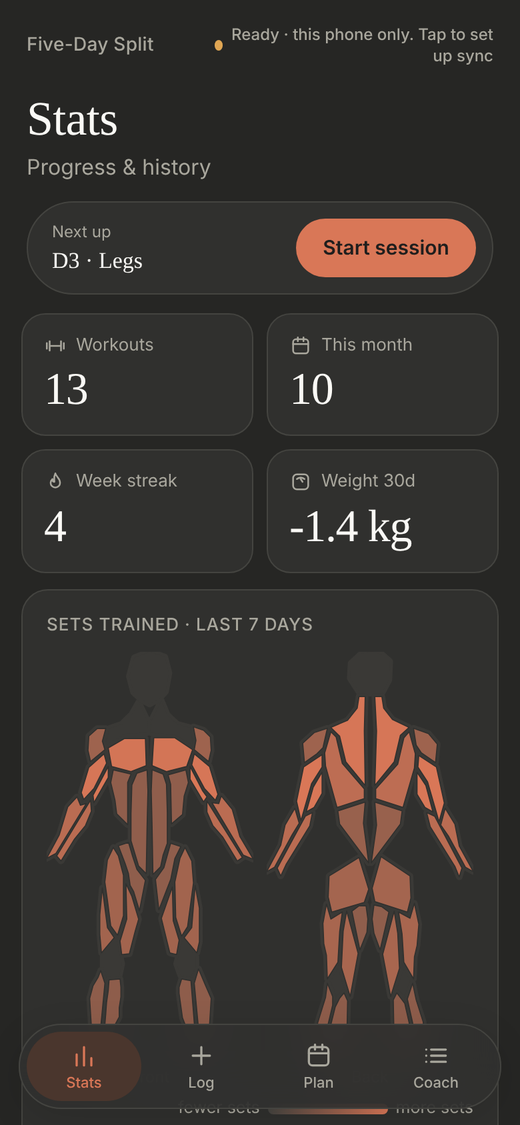
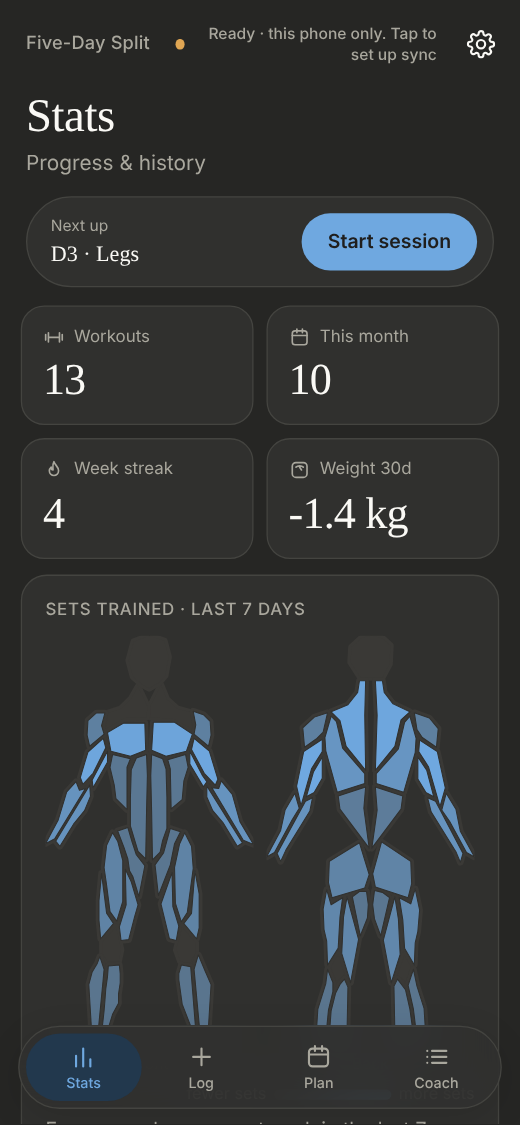
Move settings gear to top right; refresh README screenshots
Claude-Session: https://claude.ai/code/session_01G4zxRsQQfDdyvkuqdmCpkk

diff --git a/index.html b/index.html
@@ -317,13 +317,13 @@ html[data-contrast="high"] .btn,html[data-contrast="high"] input[type=text],html
 #settings .seg{background:var(--inset);border-radius:999px;padding:3px}
 .hcrow{display:flex;align-items:center;justify-content:space-between;gap:12px;min-height:44px;margin-top:12px}
 .hcrow input{width:26px;height:26px;accent-color:var(--accent)}
-#gear{flex:none;width:44px;height:44px;margin:-8px 0 -8px -12px;display:inline-flex;align-items:center;justify-content:center;border:0;background:none;color:var(--ink);border-radius:50%;cursor:pointer}
+#gear{flex:none;width:44px;height:44px;margin:-8px -12px -8px 0;display:inline-flex;align-items:center;justify-content:center;border:0;background:none;color:var(--ink);border-radius:50%;cursor:pointer}
 #gear:active{background:var(--inset)}
-header .in{justify-content:flex-start}header .in h1{flex:1;min-width:0}
+header .in h1{flex:none;white-space:nowrap}header .in #sync{flex:1 1 auto;min-width:0;text-align:right}
 </style>
 </head>
 <body>
-<header><div class="in"><button id="gear" type="button" aria-label="Settings"><svg viewBox="0 0 24 24" width="22" height="22" fill="none" stroke="currentColor" stroke-width="1.8" stroke-linecap="round" stroke-linejoin="round" aria-hidden="true"><path d="M12 15.5a3.5 3.5 0 1 0 0-7 3.5 3.5 0 0 0 0 7Z"/><path d="M19.4 15a1.7 1.7 0 0 0 .34 1.87l.06.06a2 2 0 1 1-2.83 2.83l-.06-.06a1.7 1.7 0 0 0-1.87-.34 1.7 1.7 0 0 0-1.04 1.56V21a2 2 0 1 1-4 0v-.09A1.7 1.7 0 0 0 9 19.4a1.7 1.7 0 0 0-1.87.34l-.06.06a2 2 0 1 1-2.83-2.83l.06-.06A1.7 1.7 0 0 0 4.6 15a1.7 1.7 0 0 0-1.56-1.04H3a2 2 0 1 1 0-4h.09A1.7 1.7 0 0 0 4.6 9a1.7 1.7 0 0 0-.34-1.87l-.06-.06a2 2 0 1 1 2.83-2.83l.06.06A1.7 1.7 0 0 0 9 4.6a1.7 1.7 0 0 0 1.04-1.56V3a2 2 0 1 1 4 0v.09A1.7 1.7 0 0 0 15 4.6a1.7 1.7 0 0 0 1.87-.34l.06-.06a2 2 0 1 1 2.83 2.83l-.06.06A1.7 1.7 0 0 0 19.4 9a1.7 1.7 0 0 0 1.56 1.04H21a2 2 0 1 1 0 4h-.09A1.7 1.7 0 0 0 19.4 15Z"/></svg></button><h1>Five-Day Split</h1><button id="sync" type="button" data-s="warn">Starting…</button></div></header>
+<header><div class="in"><h1>Five-Day Split</h1><button id="sync" type="button" data-s="warn">Starting…</button><button id="gear" type="button" aria-label="Settings"><svg viewBox="0 0 24 24" width="22" height="22" fill="none" stroke="currentColor" stroke-width="1.8" stroke-linecap="round" stroke-linejoin="round" aria-hidden="true"><path d="M12 15.5a3.5 3.5 0 1 0 0-7 3.5 3.5 0 0 0 0 7Z"/><path d="M19.4 15a1.7 1.7 0 0 0 .34 1.87l.06.06a2 2 0 1 1-2.83 2.83l-.06-.06a1.7 1.7 0 0 0-1.87-.34 1.7 1.7 0 0 0-1.04 1.56V21a2 2 0 1 1-4 0v-.09A1.7 1.7 0 0 0 9 19.4a1.7 1.7 0 0 0-1.87.34l-.06.06a2 2 0 1 1-2.83-2.83l.06-.06A1.7 1.7 0 0 0 4.6 15a1.7 1.7 0 0 0-1.56-1.04H3a2 2 0 1 1 0-4h.09A1.7 1.7 0 0 0 4.6 9a1.7 1.7 0 0 0-.34-1.87l-.06-.06a2 2 0 1 1 2.83-2.83l.06.06A1.7 1.7 0 0 0 9 4.6a1.7 1.7 0 0 0 1.04-1.56V3a2 2 0 1 1 4 0v.09A1.7 1.7 0 0 0 15 4.6a1.7 1.7 0 0 0 1.87-.34l.06-.06a2 2 0 1 1 2.83 2.83l-.06.06A1.7 1.7 0 0 0 19.4 9a1.7 1.7 0 0 0 1.56 1.04H21a2 2 0 1 1 0 4h-.09A1.7 1.7 0 0 0 19.4 15Z"/></svg></button></div></header>
 <dialog id="settings"><h2>Settings</h2><p id="set-status"></p>
 <h3>Cloud sync</h3><p class="sub" style="margin:0;font-size:13px;color:var(--muted)">Your workouts always save on this phone first. Sync copies them to your private GitHub repo so Claude can read them.</p>
 <label for="set-repo">Private repo (owner/name)</label><input id="set-repo" type="text" placeholder="your-name/your-private-repo" autocapitalize="off" autocorrect="off" spellcheck="false">
@@ -438,7 +438,7 @@ let sampleCache=null;
 const LS_CO='split-coach-v1',LS_CS='split-coach-shas-v1';
 const esc=s=>String(s==null?'':s).replace(/[&<>"']/g,c=>({'&':'&amp;','<':'&lt;','>':'&gt;','"':'&quot;',"'":'&#39;'}[c]));
 const LS_S='split-sessions-v2',LS_Q='split-queue-v1',LS_C='split-sync-cfg-v1',LS_H='split-shas-v1',LS_L='split-lastsync-v1';
-const BUILD='2026-11-18.1104';
+const BUILD='2026-11-18.1108';
 const lsGet=(k,d)=>{try{const v=localStorage.getItem(k);return v?JSON.parse(v):d;}catch(e){return d;}};
 const lsSet=(k,v)=>{try{localStorage.setItem(k,JSON.stringify(v));return true;}catch(e){return false;}};
 function idbOpen(){return new Promise((res,rej)=>{try{const r=indexedDB.open('split',1);r.onupgradeneeded=()=>r.result.createObjectStore('kv');r.onsuccess=()=>res(r.result);r.onerror=()=>rej(r.error);}catch(e){rej(e);}});}

diff --git a/src/template.html b/src/template.html
@@ -317,13 +317,13 @@ html[data-contrast="high"] .btn,html[data-contrast="high"] input[type=text],html
 #settings .seg{background:var(--inset);border-radius:999px;padding:3px}
 .hcrow{display:flex;align-items:center;justify-content:space-between;gap:12px;min-height:44px;margin-top:12px}
 .hcrow input{width:26px;height:26px;accent-color:var(--accent)}
-#gear{flex:none;width:44px;height:44px;margin:-8px 0 -8px -12px;display:inline-flex;align-items:center;justify-content:center;border:0;background:none;color:var(--ink);border-radius:50%;cursor:pointer}
+#gear{flex:none;width:44px;height:44px;margin:-8px -12px -8px 0;display:inline-flex;align-items:center;justify-content:center;border:0;background:none;color:var(--ink);border-radius:50%;cursor:pointer}
 #gear:active{background:var(--inset)}
-header .in{justify-content:flex-start}header .in h1{flex:1;min-width:0}
+header .in h1{flex:none;white-space:nowrap}header .in #sync{flex:1 1 auto;min-width:0;text-align:right}
 </style>
 </head>
 <body>
-<header><div class="in"><button id="gear" type="button" aria-label="Settings"><svg viewBox="0 0 24 24" width="22" height="22" fill="none" stroke="currentColor" stroke-width="1.8" stroke-linecap="round" stroke-linejoin="round" aria-hidden="true"><path d="M12 15.5a3.5 3.5 0 1 0 0-7 3.5 3.5 0 0 0 0 7Z"/><path d="M19.4 15a1.7 1.7 0 0 0 .34 1.87l.06.06a2 2 0 1 1-2.83 2.83l-.06-.06a1.7 1.7 0 0 0-1.87-.34 1.7 1.7 0 0 0-1.04 1.56V21a2 2 0 1 1-4 0v-.09A1.7 1.7 0 0 0 9 19.4a1.7 1.7 0 0 0-1.87.34l-.06.06a2 2 0 1 1-2.83-2.83l.06-.06A1.7 1.7 0 0 0 4.6 15a1.7 1.7 0 0 0-1.56-1.04H3a2 2 0 1 1 0-4h.09A1.7 1.7 0 0 0 4.6 9a1.7 1.7 0 0 0-.34-1.87l-.06-.06a2 2 0 1 1 2.83-2.83l.06.06A1.7 1.7 0 0 0 9 4.6a1.7 1.7 0 0 0 1.04-1.56V3a2 2 0 1 1 4 0v.09A1.7 1.7 0 0 0 15 4.6a1.7 1.7 0 0 0 1.87-.34l.06-.06a2 2 0 1 1 2.83 2.83l-.06.06A1.7 1.7 0 0 0 19.4 9a1.7 1.7 0 0 0 1.56 1.04H21a2 2 0 1 1 0 4h-.09A1.7 1.7 0 0 0 19.4 15Z"/></svg></button><h1>Five-Day Split</h1><button id="sync" type="button" data-s="warn">Starting…</button></div></header>
+<header><div class="in"><h1>Five-Day Split</h1><button id="sync" type="button" data-s="warn">Starting…</button><button id="gear" type="button" aria-label="Settings"><svg viewBox="0 0 24 24" width="22" height="22" fill="none" stroke="currentColor" stroke-width="1.8" stroke-linecap="round" stroke-linejoin="round" aria-hidden="true"><path d="M12 15.5a3.5 3.5 0 1 0 0-7 3.5 3.5 0 0 0 0 7Z"/><path d="M19.4 15a1.7 1.7 0 0 0 .34 1.87l.06.06a2 2 0 1 1-2.83 2.83l-.06-.06a1.7 1.7 0 0 0-1.87-.34 1.7 1.7 0 0 0-1.04 1.56V21a2 2 0 1 1-4 0v-.09A1.7 1.7 0 0 0 9 19.4a1.7 1.7 0 0 0-1.87.34l-.06.06a2 2 0 1 1-2.83-2.83l.06-.06A1.7 1.7 0 0 0 4.6 15a1.7 1.7 0 0 0-1.56-1.04H3a2 2 0 1 1 0-4h.09A1.7 1.7 0 0 0 4.6 9a1.7 1.7 0 0 0-.34-1.87l-.06-.06a2 2 0 1 1 2.83-2.83l.06.06A1.7 1.7 0 0 0 9 4.6a1.7 1.7 0 0 0 1.04-1.56V3a2 2 0 1 1 4 0v.09A1.7 1.7 0 0 0 15 4.6a1.7 1.7 0 0 0 1.87-.34l.06-.06a2 2 0 1 1 2.83 2.83l-.06.06A1.7 1.7 0 0 0 19.4 9a1.7 1.7 0 0 0 1.56 1.04H21a2 2 0 1 1 0 4h-.09A1.7 1.7 0 0 0 19.4 15Z"/></svg></button></div></header>
 <dialog id="settings"><h2>Settings</h2><p id="set-status"></p>
 <h3>Cloud sync</h3><p class="sub" style="margin:0;font-size:13px;color:var(--muted)">Your workouts always save on this phone first. Sync copies them to your private GitHub repo so Claude can read them.</p>
 <label for="set-repo">Private repo (owner/name)</label><input id="set-repo" type="text" placeholder="your-name/your-private-repo" autocapitalize="off" autocorrect="off" spellcheck="false">

diff --git a/sw.js b/sw.js
@@ -1,4 +1,4 @@
-const V='split-2026-11-18.1104';
+const V='split-2026-11-18.1108';
 const SHELL=['./','index.html','manifest.webmanifest','icon-192.png','icon-512.png','apple-touch-icon.png'];
 self.addEventListener('install',e=>{e.waitUntil(caches.open(V).then(c=>c.addAll(SHELL)).then(()=>self.skipWaiting()));});
 self.addEventListener('activate',e=>{e.waitUntil(caches.keys().then(ks=>Promise.all(ks.filter(k=>k!==V).map(k=>caches.delete(k)))).then(()=>self.clients.claim()));});
